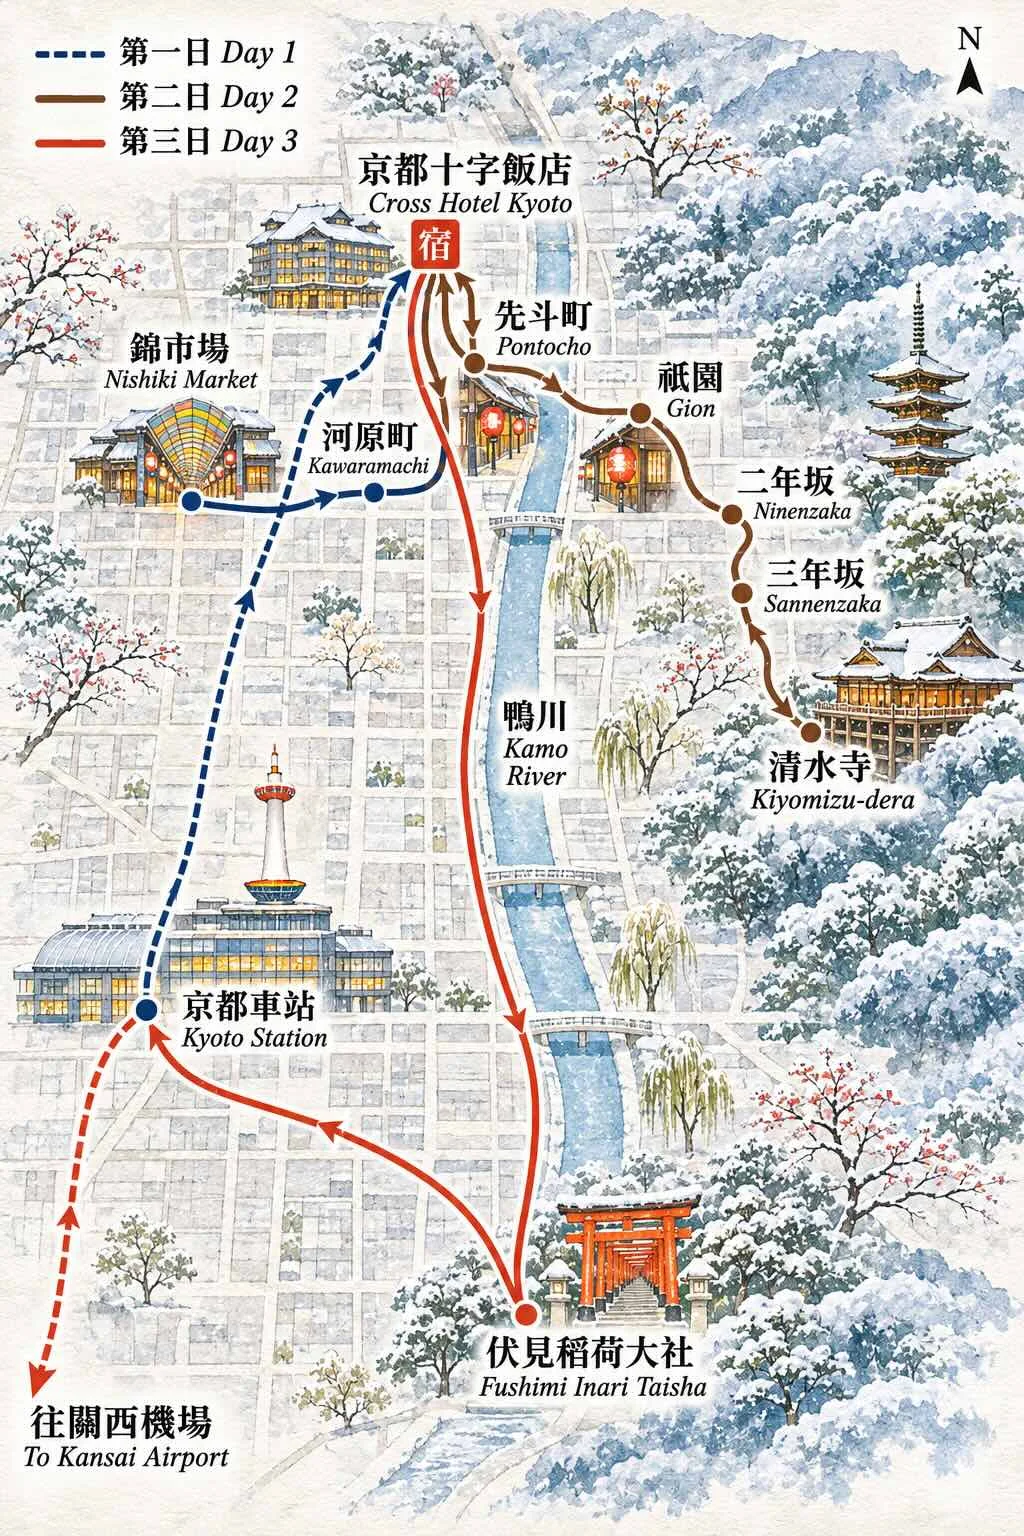
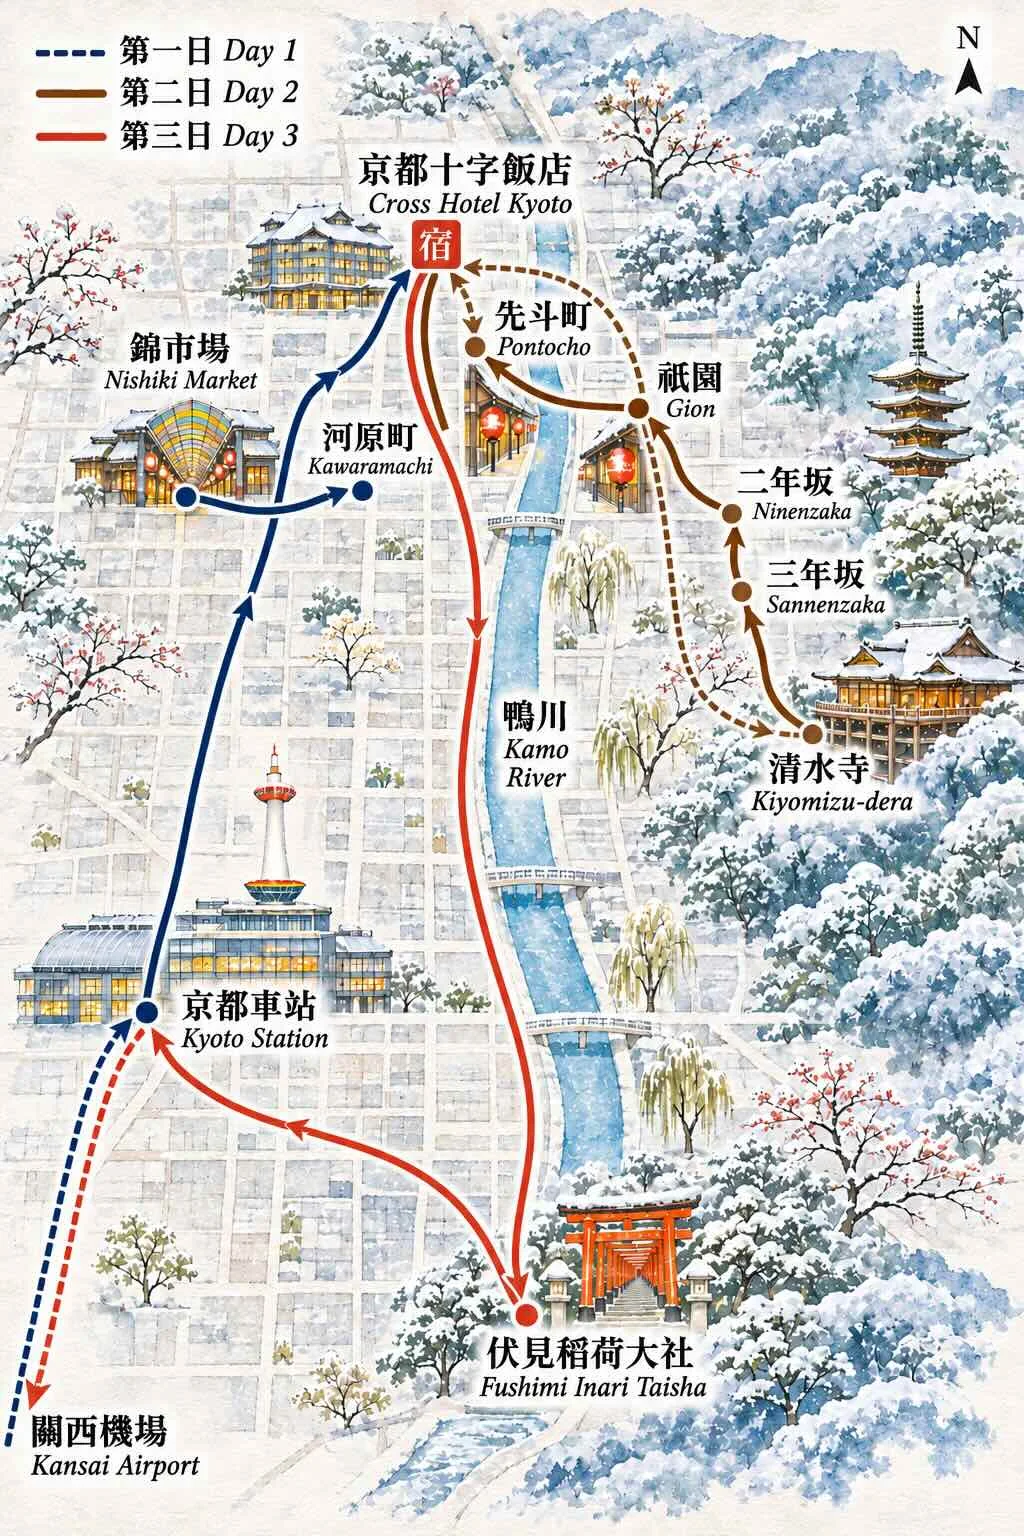
全部路線地圖：重新生成，箭頭依時間順序
Claude-Session: https://claude.ai/code/session_01JvJKWDnmpNQPWiVG7U7TXY

Changed region(s): [[0.0, 0.0, 1.0, 1.0], [0.0312, 0.5312, 0.0625, 0.5625]]

diff --git a/assets/js/data.js b/assets/js/data.js
@@ -16,7 +16,7 @@ window.TRIP = {
     { day: 2, photo: 'map-day2', t: '第二日路線：清水寺、三年坂、二年坂、祇園、先斗町' },
     { day: 3, photo: 'map-day3', t: '第三日路線：伏見稻荷大社、京都車站、關西機場' }
   ],
-  photoVer: { 'map-day1': 2, 'map-day2': 3 },
+  photoVer: { 'map-all': 2, 'map-day1': 2, 'map-day2': 3 },
   photoNote: '照片與路線地圖為 AI 生成的情境示意圖，不是實地拍攝；京都一月底不一定會下雪。',
 
   hotel: {
